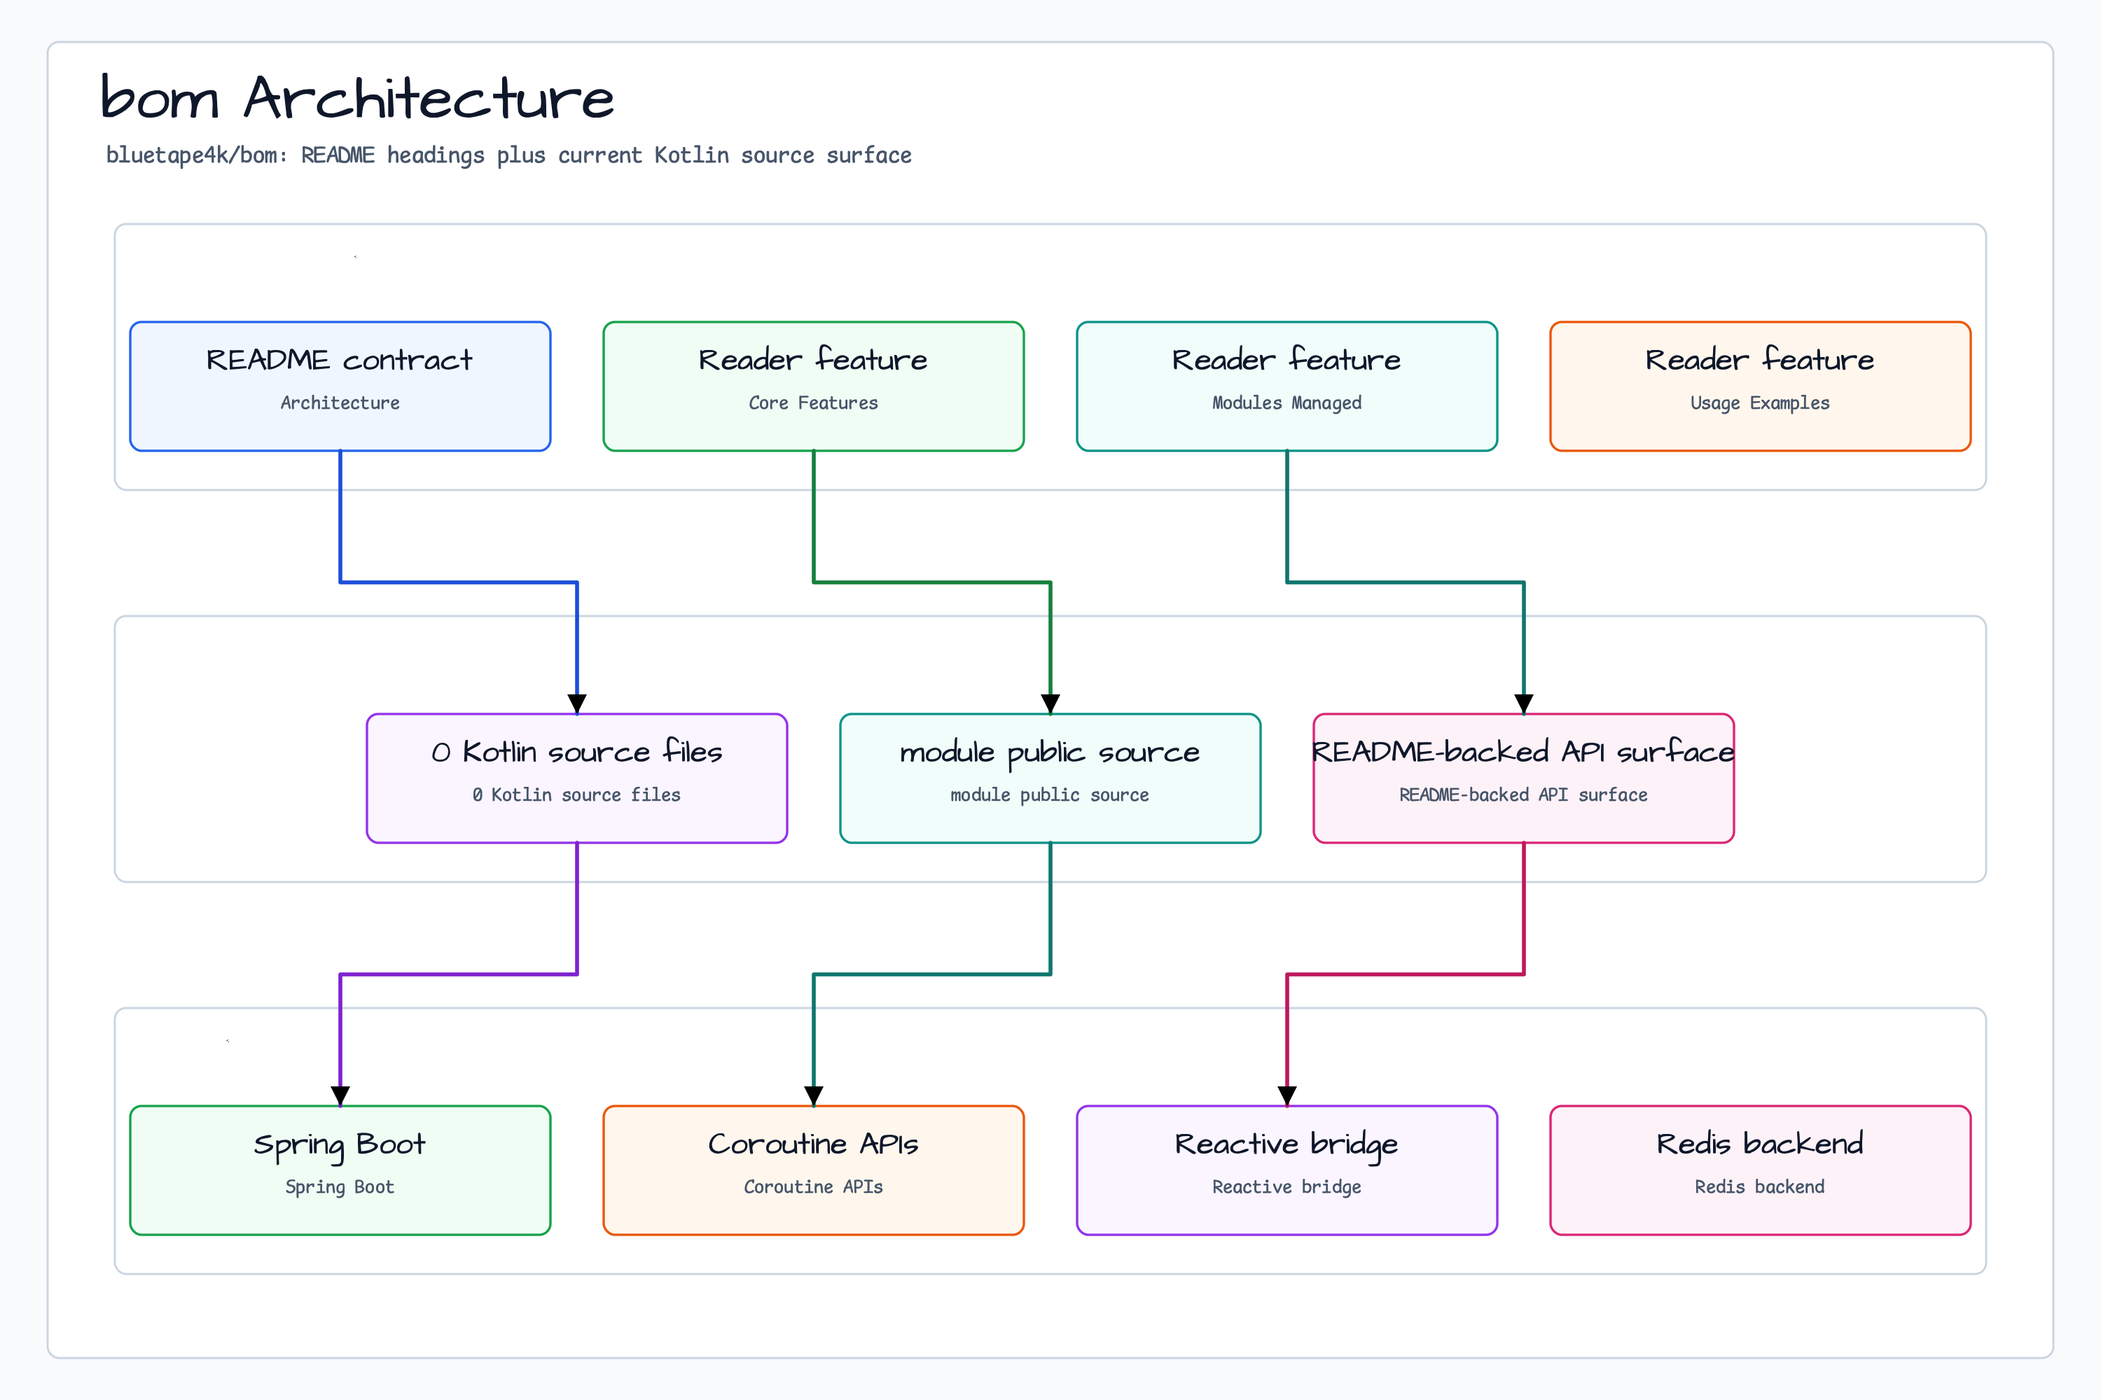
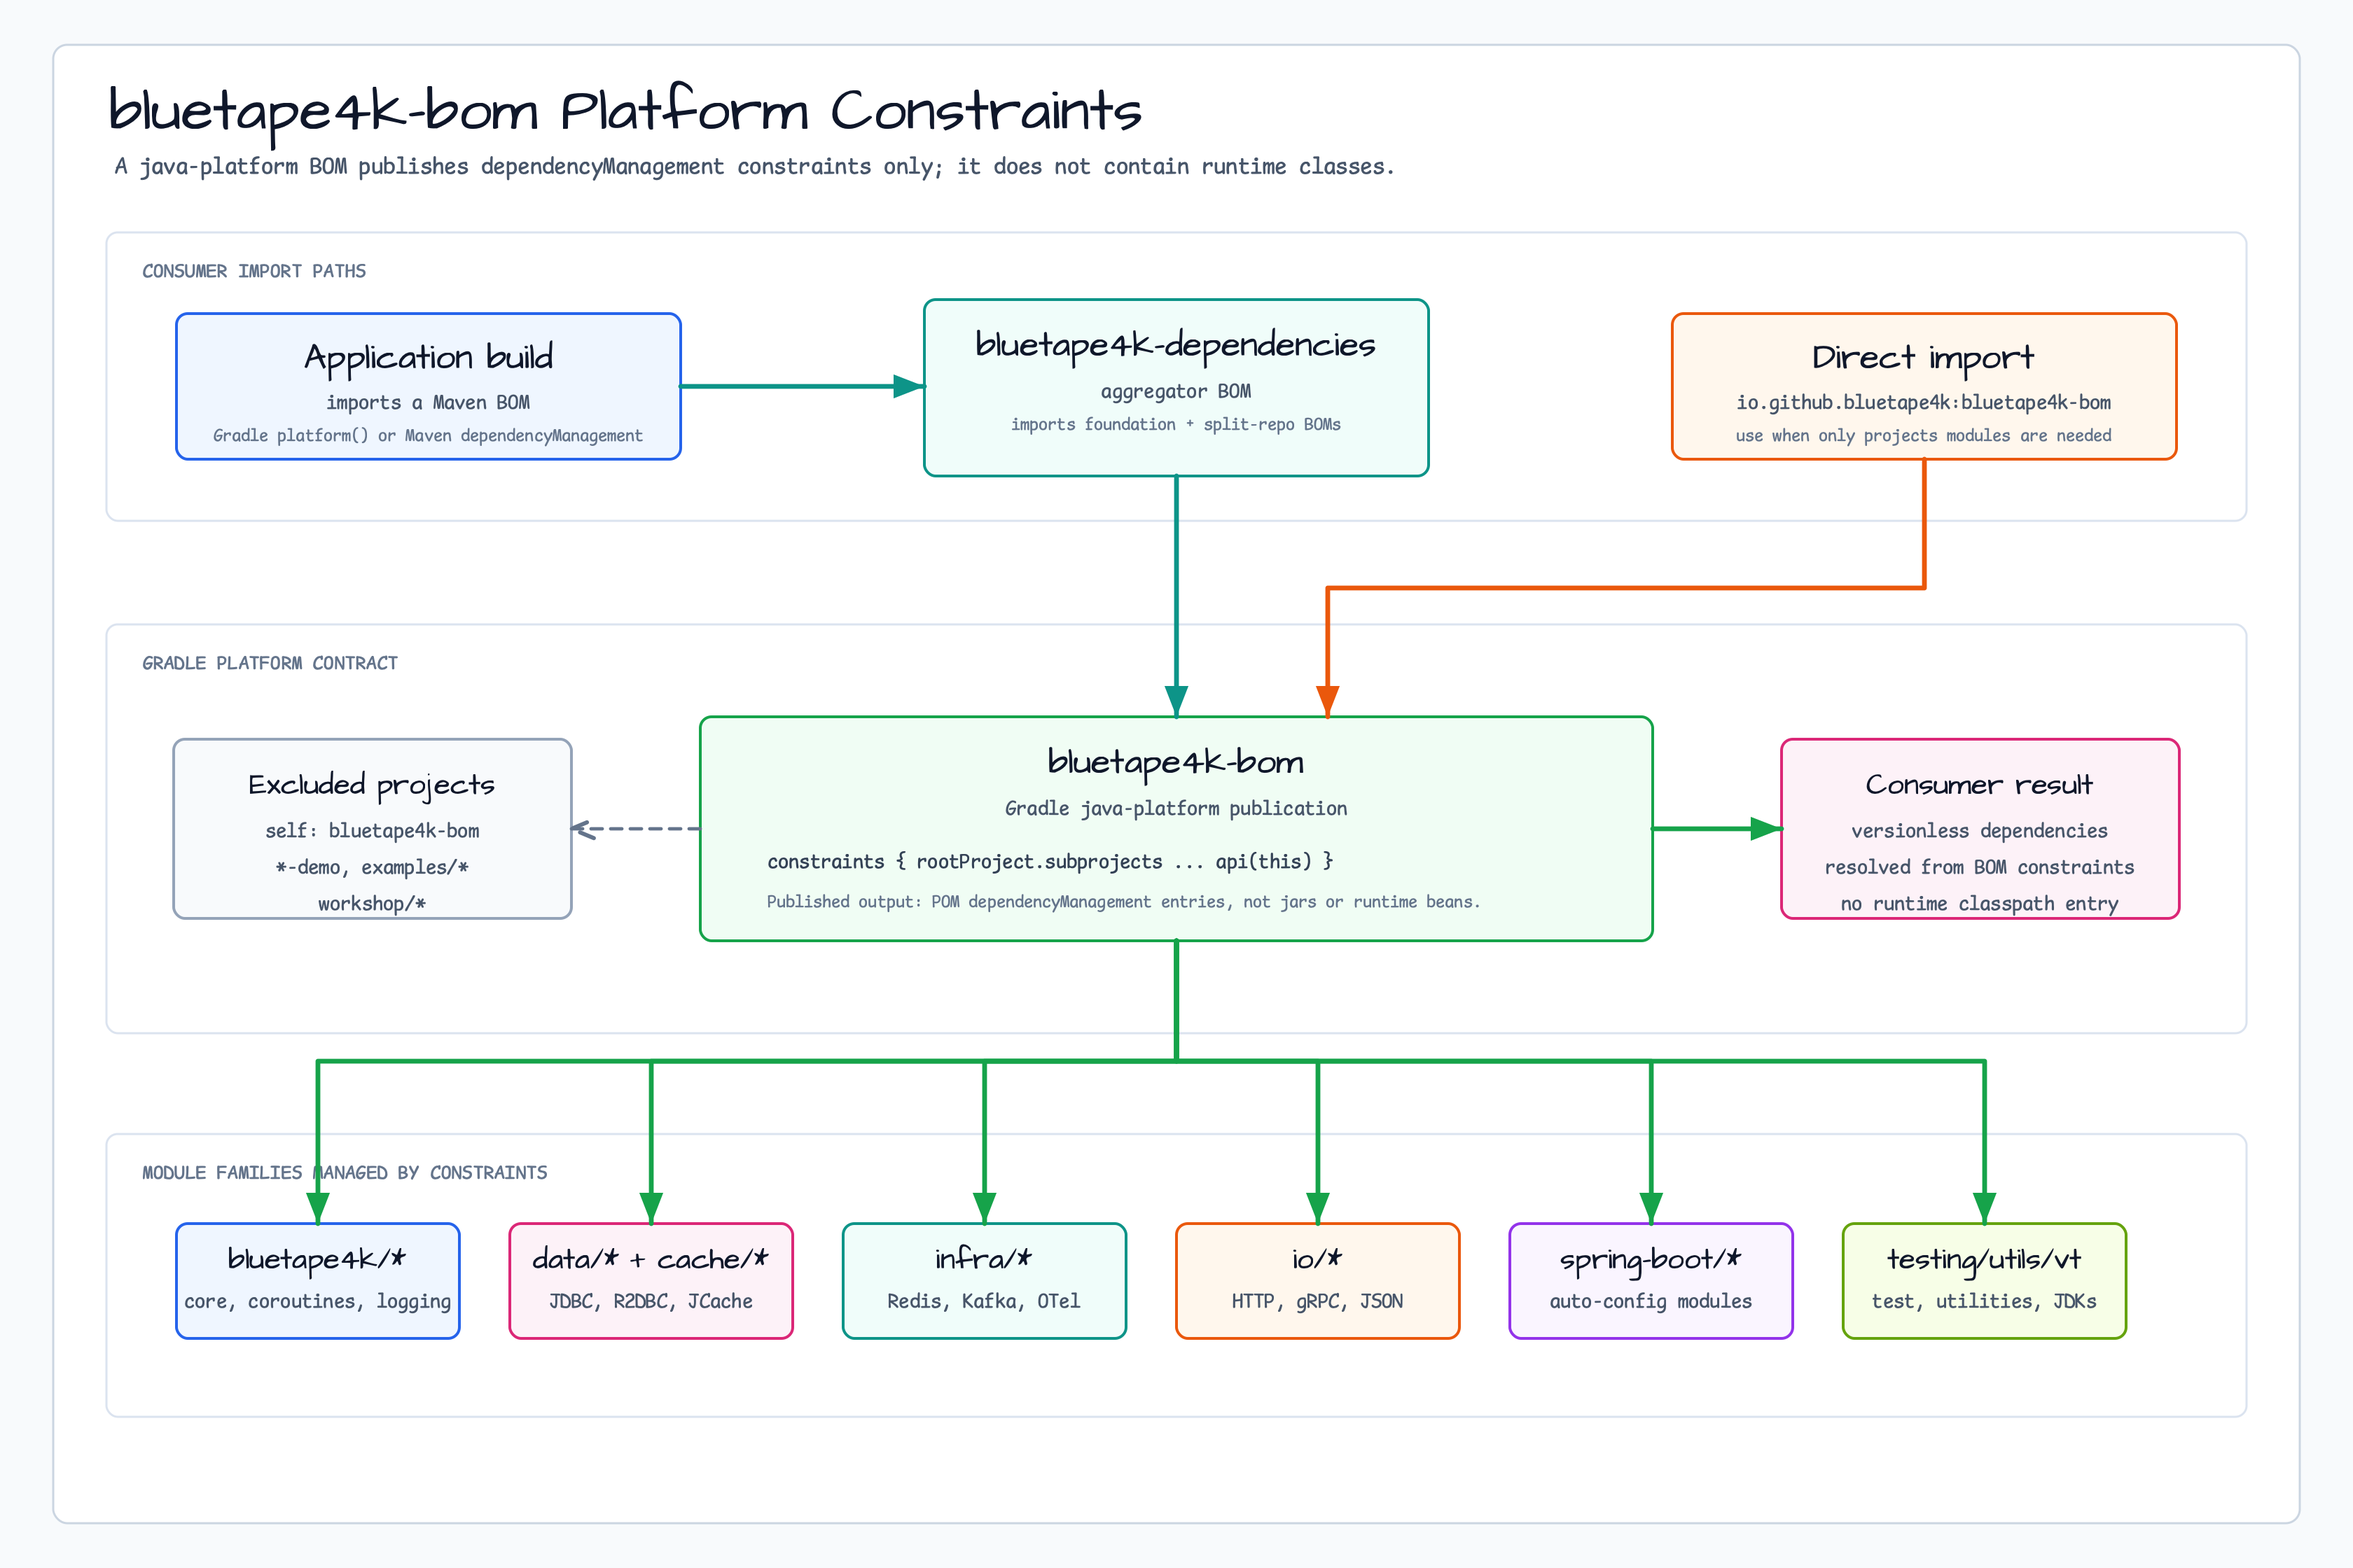
docs: clarify bom platform constraints diagram
Show bluetape4k-bom as a java-platform dependency-management publisher rather than a runtime component.

Constraint: source evidence is bluetape4k/bom build.gradle.kts and bilingual README module contract.

Rejected: generic architecture label | the diagram needs to describe BOM constraints and exclusion rules.

Confidence: high

Scope-risk: narrow

Directive: keep BOM visuals focused on dependency-management constraints, not executable module architecture.

Tested: SVG XML parse, forbidden-pattern scan, crossing check, margin audit, PNG visual inspection, README image link check, git diff --check.

Not-tested: Gradle build; documentation-only change.

diff --git a/bluetape4k/bom/README.ko.md b/bluetape4k/bom/README.ko.md
@@ -8,7 +8,7 @@ bluetape4k 생태계의 토대 계층이며, `bluetape4k/*`, `data/*`, `infra/*`
 
 ## Architecture
 
-![bom Architecture diagram](../../docs/images/readme-diagrams/bluetape4k-bom-diagram-01.png)
+![bluetape4k-bom platform constraints diagram](../../docs/images/readme-diagrams/bluetape4k-bom-diagram-01.png)
 
 BOM 은 Gradle `java-platform` 으로 `<dependencyManagement>` constraint 만 게시하며 런타임 클래스는 포함하지 않는다.
 `rootProject.subprojects` 를 동적으로 끌어오며 자기 자신, `*-demo`, `examples/*`, `workshop/*` 만 제외한다.

diff --git a/bluetape4k/bom/README.md b/bluetape4k/bom/README.md
@@ -9,7 +9,7 @@ The **root Maven BOM** for the entire `io.github.bluetape4k:*` module set publis
 
 ## Architecture
 
-![bom Architecture diagram](../../docs/images/readme-diagrams/bluetape4k-bom-diagram-01.png)
+![bluetape4k-bom platform constraints diagram](../../docs/images/readme-diagrams/bluetape4k-bom-diagram-01.png)
 
 The BOM is a Gradle `java-platform` that publishes only `<dependencyManagement>` constraints — no runtime classes. It dynamically pulls in all `rootProject.subprojects` except itself, `*-demo` modules, `examples/*`, and `workshop/*`.
 
